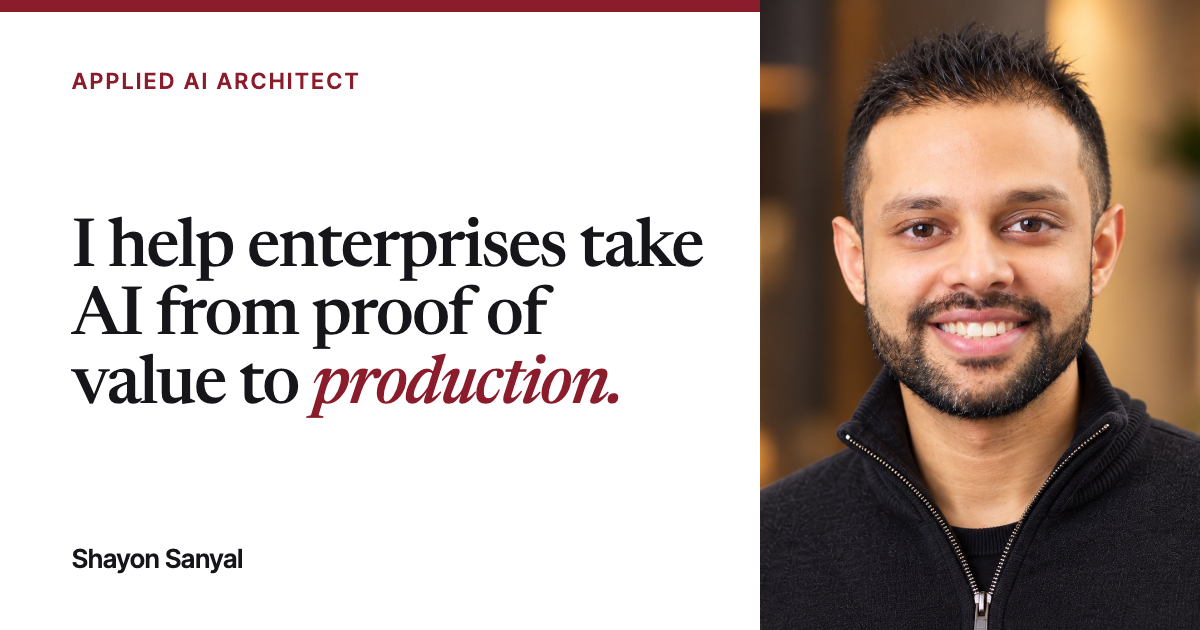
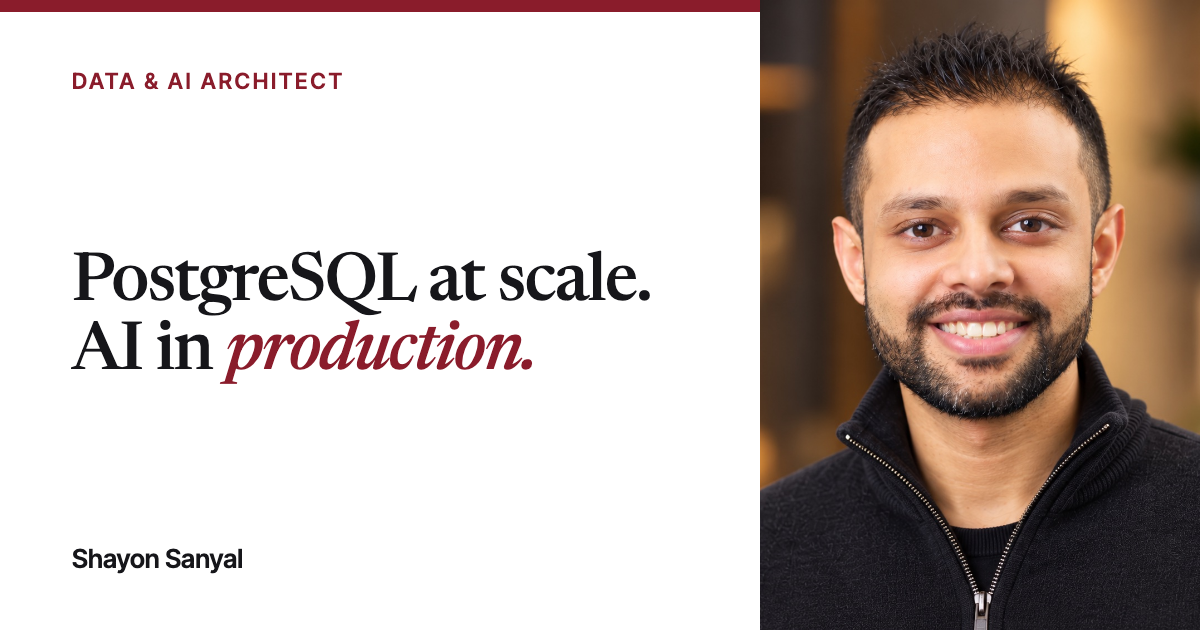
Refine PostgreSQL portfolio, responsive layout, and scroll reveals

Changed region(s): [[0.0617, 0.3317, 0.5858, 0.6635], [0.0617, 0.0905, 0.3083, 0.1508]]

diff --git a/tests/motion.spec.ts b/tests/motion.spec.ts
@@ -30,7 +30,9 @@ async function poseWithTopInView(target: Locator, pixelsIntoView: number): Promi
 }
 
 async function usesTriggers(page: Page): Promise<boolean> {
-  return page.evaluate(() => CSS.supports("timeline-trigger: --reveal view()"));
+  return page.evaluate(() =>
+    CSS.supports("timeline-trigger: --reveal view() cover 100px cover calc(infinity * 1px)"),
+  );
 }
 
 async function scrollThrough(page: Page, path: string): Promise<void> {
@@ -156,8 +158,14 @@ test("timed reveal: a block waits until it is 100px into view, then plays once",
   test.skip(!(await usesTriggers(page)), "this browser reveals on a scroll-linked timeline");
   const row = page.locator("#work article").first();
   const who = row.locator(".who");
-  expect(await poseWithTopInView(who, 40)).toMatchObject({ opacity: 0, rise: 24 });
+  expect(await poseWithTopInView(who, 40)).toMatchObject({ opacity: 0, rise: 16 });
   expect((await poseWithTopInView(who, 160)).opacity).toBeLessThan(0.9);
+  // The reveal must still be perceptible after the reader stops scrolling.
+  await page.waitForTimeout(300);
+  const paused = await readPose(who);
+  expect(paused.opacity).toBeGreaterThan(0.1);
+  expect(paused.opacity).toBeLessThan(0.95);
+  expect(paused.rise).toBeGreaterThan(0.5);
   await expect.poll(() => readPose(who)).toMatchObject({ opacity: 1, rise: 0 });
   const delays = await row
     .locator("[data-reveal]")
@@ -171,7 +179,7 @@ test("timed reveal: a section rule draws with its heading", async ({ page }) => 
   await page.emulateMedia({ reducedMotion: "no-preference" });
   await page.goto("/");
   test.skip(!(await usesTriggers(page)), "this browser reveals on a scroll-linked timeline");
-  const heading = page.locator("#work .section-heading");
+  const heading = page.locator("#on-stage .section-heading");
   expect((await poseWithTopInView(heading, 40)).ruleScale).toBe(0);
   expect((await poseWithTopInView(heading, 160)).ruleScale).toBeLessThan(0.9);
   await expect.poll(async () => (await readPose(heading)).ruleScale).toBe(1);
@@ -186,7 +194,7 @@ test("scroll-linked reveal: blocks play out where the reader is looking", async 
   const midway = await poseWithTopInView(column, 110);
   expect(midway.opacity).toBeGreaterThan(0.3);
   expect(midway.opacity).toBeLessThan(0.7);
-  expect(midway.rise).toBeGreaterThan(6);
+  expect(midway.rise).toBeGreaterThan(4);
   expect(await poseWithTopInView(column, 280)).toMatchObject({ opacity: 1, rise: 0 });
 });
 
@@ -194,7 +202,7 @@ test("scroll-linked reveal: a section rule draws while its heading rises", async
   await page.emulateMedia({ reducedMotion: "no-preference" });
   await page.goto("/");
   test.skip(await usesTriggers(page), "this browser plays timed reveals");
-  const heading = page.locator("#work .section-heading");
+  const heading = page.locator("#on-stage .section-heading");
   expect((await poseWithTopInView(heading, 30)).ruleScale).toBeLessThan(0.05);
   const drawing = (await poseWithTopInView(heading, 150)).ruleScale;
   expect(drawing).toBeGreaterThan(0.25);
@@ -224,6 +232,39 @@ for (const path of ["/", "/talks/", "/blog/"]) {
   }) => {
     await scrollThrough(page, path);
     await expect.poll(() => unsettled(page)).toEqual([]);
+  });
+}
+
+for (const viewport of [
+  { width: 1440, height: 900 },
+  { width: 390, height: 844 },
+]) {
+  test.describe(`jump navigation at ${viewport.width}px`, () => {
+    test.use({ viewport });
+
+    for (const path of ["/", "/talks/", "/blog/"]) {
+      test(`${path} reveals skipped blocks after an instant jump to the bottom`, async ({
+        page,
+      }) => {
+        await page.emulateMedia({ reducedMotion: "no-preference" });
+        await page.goto(path);
+        await page.evaluate(() =>
+          window.scrollTo({ top: document.documentElement.scrollHeight, behavior: "instant" }),
+        );
+        await expect.poll(() => unsettled(page)).toEqual([]);
+      });
+    }
+
+    test("a direct contact link reveals the destination and all skipped blocks", async ({
+      page,
+    }) => {
+      await page.emulateMedia({ reducedMotion: "no-preference" });
+      await page.goto("/#contact");
+      await expect(page.locator("#contact .stack")).toBeInViewport();
+      await expect.poll(() => unsettled(page)).toEqual([]);
+      await page.reload();
+      await expect.poll(() => unsettled(page)).toEqual([]);
+    });
   });
 }
 

diff --git a/src/styles/motion.css b/src/styles/motion.css
@@ -12,7 +12,7 @@
 @keyframes scroll-rise {
   from {
     opacity: 0;
-    transform: translateY(24px);
+    transform: translateY(16px);
   }
   to {
     opacity: 1;
@@ -57,19 +57,20 @@
     animation-delay: calc(var(--reveal-index, 0) * 80ms);
   }
 
-  @supports (timeline-trigger: --reveal view()) {
-    /* Each block plays a timed reveal once it is 100px into view, so the motion is
-       visible however fast the page scrolls. trigger-scope keeps every block on its
-       own trigger; without it, all of them would follow the last block declared. */
+  @supports (timeline-trigger: --reveal view() cover 100px cover calc(infinity * 1px)) {
+    /* A gentle, timed entrance continues after scrolling stops. Keep the activation
+       range open past the exit: End, anchor links, and restored scroll positions
+       must reveal skipped blocks too. A finite range can be jumped over entirely.
+       Each block owns its trigger, so later blocks still wait their turn. */
     [data-reveal="scroll"],
     [data-rule] {
-      timeline-trigger: --reveal view() cover 100px cover 100%;
+      timeline-trigger: --reveal view() cover 100px cover calc(infinity * 1px);
       trigger-scope: --reveal;
     }
 
     [data-reveal="scroll"] {
       animation-name: scroll-rise;
-      animation-duration: 600ms;
+      animation-duration: 900ms;
       animation-timing-function: var(--ease-out);
       animation-fill-mode: both;
       animation-delay: calc(var(--reveal-step, 0) * 80ms);
@@ -78,14 +79,15 @@
 
     [data-rule]::before {
       animation-name: rule-draw;
-      animation-duration: 700ms;
+      animation-duration: 900ms;
       animation-timing-function: var(--ease-out);
       animation-fill-mode: both;
       animation-trigger: --reveal play-once;
     }
   }
 
-  @supports (animation-timeline: view()) and (not (timeline-trigger: --reveal view())) {
+  @supports (animation-timeline: view()) and
+    (not (timeline-trigger: --reveal view() cover 100px cover calc(infinity * 1px))) {
     /* Longhands on purpose: the build minifier folds animation-timeline into an
        animation shorthand, which browsers reject, and the reveal silently stops.
        Linear on purpose: the reader's scroll is the easing, and a curve spends most
@@ -122,9 +124,5 @@
 
   a {
     transition: color 150ms ease-out;
-  }
-
-  .study {
-    transition: background-color 150ms ease-out;
   }
 }

diff --git a/tests/layout.spec.ts b/tests/layout.spec.ts
@@ -15,6 +15,36 @@ for (const path of PAGES) {
   }
 }
 
+for (const width of [768, 1024]) {
+  test(`results and session links stay with their descriptions at ${width}px`, async ({ page }) => {
+    await page.setViewportSize({ width, height: 900 });
+    await page.emulateMedia({ reducedMotion: "reduce" });
+    await page.goto("/");
+    for (const [description, supporting] of [
+      [".study .body", ".study .metrics"],
+      [".talk .what", ".talk .how"],
+    ]) {
+      const main = await page.locator(description).first().boundingBox();
+      const details = await page.locator(supporting).first().boundingBox();
+      expect(main).not.toBeNull();
+      expect(details).not.toBeNull();
+      expect(Math.abs(main!.x - details!.x)).toBeLessThanOrEqual(1);
+    }
+  });
+
+  test(`the four approach steps form two balanced rows at ${width}px`, async ({ page }) => {
+    await page.setViewportSize({ width, height: 900 });
+    await page.emulateMedia({ reducedMotion: "reduce" });
+    await page.goto("/");
+    const tops = await page
+      .locator("#approach .steps li")
+      .evaluateAll((items) => items.map((item) => Math.round(item.getBoundingClientRect().top)));
+    expect(tops[0]).toBe(tops[1]);
+    expect(tops[2]).toBe(tops[3]);
+    expect(tops[2]).toBeGreaterThan(tops[0]);
+  });
+}
+
 test("nav, hero, and contact links are at least 44px tall on a phone", async ({ page }) => {
   await page.setViewportSize({ width: 390, height: 800 });
   await page.goto("/");

diff --git a/tests/home.spec.ts b/tests/home.spec.ts
@@ -8,12 +8,10 @@ test.describe("home hero", () => {
   });
 
   test("has the title, a single h1, and the hero copy", async ({ page }) => {
-    await expect(page).toHaveTitle("Shayon Sanyal | Applied AI architect");
+    await expect(page).toHaveTitle("Shayon Sanyal | PostgreSQL, Data & AI");
     await expect(page.locator("h1")).toHaveCount(1);
-    await expect(page.locator("h1")).toHaveText(
-      "I help enterprises take AI from proof of value to production.",
-    );
-    await expect(page.getByText("Applied AI architect in New York")).toBeVisible();
+    await expect(page.locator("h1")).toHaveText("PostgreSQL at scale. AI in production.");
+    await expect(page.getByText("Data & AI architect in New York")).toBeVisible();
   });
 
   test("shows the portrait with alt text and modern formats", async ({ page }) => {
@@ -62,9 +60,7 @@ test.describe("approach", () => {
   test("states the principle and four numbered steps without separators", async ({ page }) => {
     await page.goto("/");
     const section = page.locator("#approach");
-    await expect(section.getByRole("heading", { level: 2 })).toHaveText(
-      "LLM at the edges, determinism in the core.",
-    );
+    await expect(section.getByRole("heading", { level: 2 })).toHaveText("How I work.");
     await expect(section.locator(".step-number")).toHaveText(["01", "02", "03", "04"]);
     await expect(section.locator(".step-label")).toHaveText([
       "01 Discover",

diff --git a/src/lib/site.ts b/src/lib/site.ts
@@ -1,9 +1,9 @@
 export const SITE = {
   name: "Shayon Sanyal",
   url: "https://shayons.github.io",
-  title: "Shayon Sanyal | Applied AI architect",
+  title: "Shayon Sanyal | PostgreSQL, Data & AI",
   description:
-    "Applied AI architect in New York. I help enterprises take AI from proof of value to production: evaluations, retrieval, agent guardrails, and the data layer underneath.",
+    "The portfolio of Shayon Sanyal, a data and AI architect in New York. PostgreSQL at scale, data architecture, retrieval, and AI in production.",
   role: "Principal Solutions Architect, Amazon Web Services",
   ogImage: "/og.png",
 } as const;

diff --git a/scripts/og-card.html b/scripts/og-card.html
@@ -77,8 +77,8 @@
   <body>
     <div class="card">
       <div class="text">
-        <div class="label">Applied AI architect</div>
-        <h1>I help enterprises take AI from proof of value to <em>production.</em></h1>
+        <div class="label">Data &amp; AI architect</div>
+        <h1>PostgreSQL at scale.<br />AI in <em>production.</em></h1>
         <div class="name">Shayon Sanyal</div>
       </div>
       <img src="../src/assets/portrait.jpg" alt="" />

diff --git a/tests/support.ts b/tests/support.ts
@@ -1,7 +1,7 @@
 import { readFileSync } from "node:fs";
 
 export const PAGES = ["/", "/talks/", "/blog/", "/404.html"] as const;
-export const WIDTHS = [320, 390, 768, 1440] as const;
+export const WIDTHS = [320, 390, 768, 960, 1024, 1440] as const;
 
 export type TalkData = { id: string; title: string; date: string; coPresenters?: string[] };
 export type PostData = { id: string; title: string; date: string; url: string };

diff --git a/src/styles/base.css b/src/styles/base.css
@@ -14,6 +14,11 @@ body {
   -webkit-text-size-adjust: 100%;
 }
 
+::selection {
+  background: var(--accent);
+  color: var(--bg);
+}
+
 img,
 picture {
   display: block;
@@ -121,6 +126,7 @@ main:focus {
   font-weight: 500;
   line-height: 1.05;
   letter-spacing: -0.02em;
+  text-wrap: balance;
 }
 
 .year {

diff --git a/src/styles/tokens.css b/src/styles/tokens.css
@@ -10,5 +10,8 @@
   --font-sans: "Inter Tight Variable", system-ui, -apple-system, "Segoe UI", sans-serif;
   --container: 1200px;
   --gutter: clamp(16px, 5vw, 64px);
+  --section-space: clamp(64px, 7vw, 104px);
+  --column-gap: 32px;
+  --aside-width: 160px;
   --ease-out: cubic-bezier(0.2, 0.7, 0.2, 1);
 }
